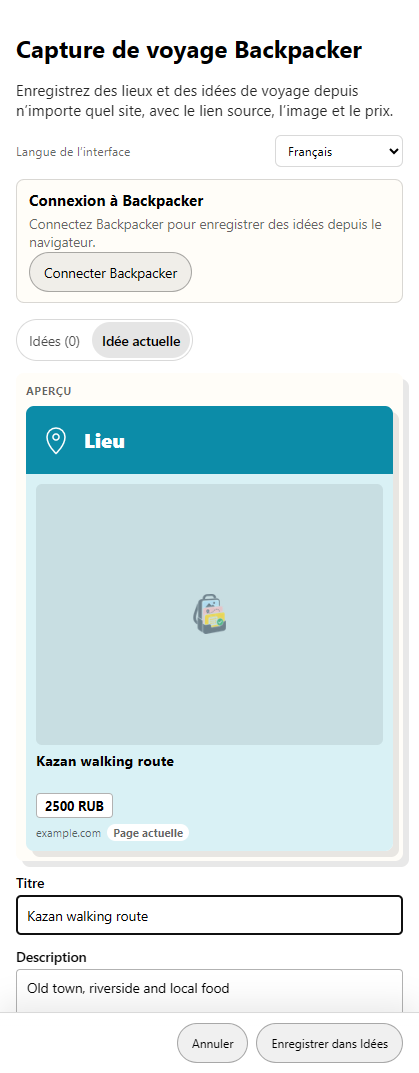
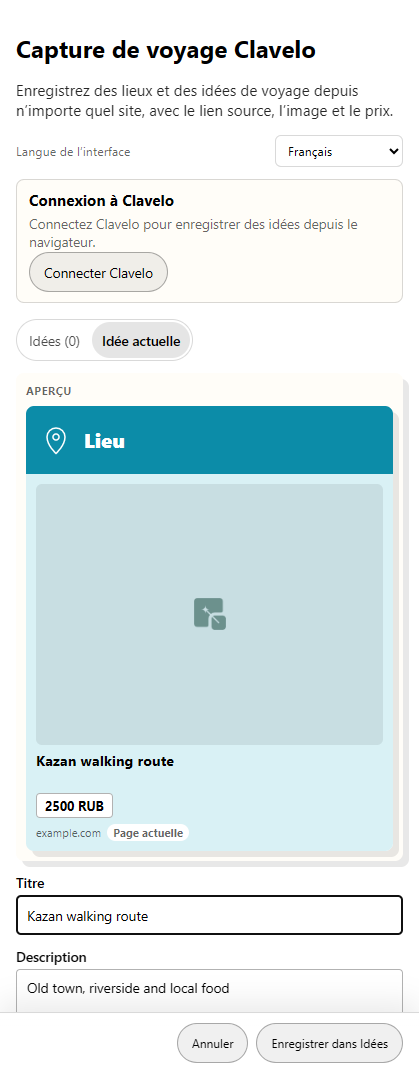
Update landing for published Clavelo extension

diff --git a/i18n.js b/i18n.js
@@ -43,12 +43,12 @@
       "ai.imageAlt": "Trip draft screen with a text field and voice input action.",
       "extension.kicker": "Ideas from the browser",
       "extension.title": "Save travel finds with the Chrome extension",
-      "extension.body1": "The desktop Chrome extension is currently published as Backpacker Travel Capture. It saves information available on the current page and sends the find to Ideas.",
+      "extension.body1": "The desktop Chrome extension is Clavelo Travel Capture. It saves information available on the current page and sends the find to Ideas.",
       "extension.body2": "Some sites may not make every detail available; the source link is kept with the idea.",
       "extension.body3": "Move the idea into a trip when you are ready, or keep it for later.",
       "extension.cta": "Install for Chrome",
       "extension.linkAria": "Open Clavelo Ideas",
-      "extension.imageAlt": "Backpacker Travel Capture side panel with a travel idea and its source.",
+      "extension.imageAlt": "Clavelo Travel Capture side panel with a travel idea and its source.",
       "day.kicker": "Day by day",
       "day.title": "A day is a stream of cards",
       "day.body1": "Every event has its own card.",
@@ -114,12 +114,12 @@
       "ai.imageAlt": "Фрагмент экрана AI-черновика: поле для описания поездки своими словами и кнопка «Надиктовать».",
       "extension.kicker": "Идеи из браузера",
       "extension.title": "Сохраняйте находки через расширение Chrome",
-      "extension.body1": "Расширение Chrome для компьютера пока опубликовано как Backpacker Travel Capture. Оно сохраняет доступную информацию с открытой страницы и отправляет находку в «Идеи».",
+      "extension.body1": "Расширение Chrome для компьютера называется Clavelo Travel Capture. Оно сохраняет доступную информацию с открытой страницы и отправляет находку в «Идеи».",
       "extension.body2": "На некоторых сайтах часть данных может быть недоступна; ссылка на источник сохраняется вместе с идеей.",
       "extension.body3": "Когда будете готовы, перенесите идею в поездку или оставьте на потом.",
       "extension.cta": "Установить для Chrome",
       "extension.linkAria": "Открыть раздел «Идеи» в Clavelo",
-      "extension.imageAlt": "Боковая панель Backpacker Travel Capture с идеей для поездки и ссылкой на источник.",
+      "extension.imageAlt": "Боковая панель Clavelo Travel Capture с идеей для поездки и ссылкой на источник.",
       "day.kicker": "По дням",
       "day.title": "День — это лента карточек",
       "day.body1": "Каждое событие — отдельная карточка.",
@@ -185,12 +185,12 @@
       "ai.imageAlt": "Écran de brouillon de voyage avec un champ de texte et une saisie vocale.",
       "extension.kicker": "Des idées depuis le navigateur",
       "extension.title": "Enregistrez vos trouvailles avec l’extension Chrome",
-      "extension.body1": "L’extension Chrome pour ordinateur est actuellement publiée sous le nom Backpacker Travel Capture. Elle enregistre les informations disponibles sur la page ouverte et envoie la trouvaille dans Idées.",
+      "extension.body1": "L’extension Chrome pour ordinateur s’appelle Clavelo Travel Capture. Elle enregistre les informations disponibles sur la page ouverte et envoie la trouvaille dans Idées.",
       "extension.body2": "Certains sites ne rendent pas tous les détails accessibles ; le lien source reste associé à l’idée.",
       "extension.body3": "Ajoutez l’idée à un voyage quand vous êtes prêt, ou gardez-la pour plus tard.",
       "extension.cta": "Installer pour Chrome",
       "extension.linkAria": "Ouvrir les Idées dans Clavelo",
-      "extension.imageAlt": "Panneau latéral de Backpacker Travel Capture avec une idée de voyage et sa source.",
+      "extension.imageAlt": "Panneau latéral de Clavelo Travel Capture avec une idée de voyage et sa source.",
       "day.kicker": "Jour après jour",
       "day.title": "Une journée est une suite de cartes",
       "day.body1": "Chaque événement a sa propre carte.",
@@ -256,12 +256,12 @@
       "ai.imageAlt": "Reiseentwurf mit Textfeld und Spracheingabe.",
       "extension.kicker": "Ideen aus dem Browser",
       "extension.title": "Reisefunde mit der Chrome-Erweiterung speichern",
-      "extension.body1": "Die Chrome-Erweiterung für den Computer wird derzeit als Backpacker Travel Capture veröffentlicht. Sie speichert verfügbare Informationen der geöffneten Seite und sendet den Fund an Ideen.",
+      "extension.body1": "Die Chrome-Erweiterung für den Computer heißt Clavelo Travel Capture. Sie speichert verfügbare Informationen der geöffneten Seite und sendet den Fund an Ideen.",
       "extension.body2": "Manche Websites stellen nicht alle Details bereit; der Quelllink bleibt bei der Idee gespeichert.",
       "extension.body3": "Übernimm die Idee später in eine Reise oder bewahre sie für später auf.",
       "extension.cta": "Für Chrome installieren",
       "extension.linkAria": "Clavelo-Ideen öffnen",
-      "extension.imageAlt": "Seitenleiste von Backpacker Travel Capture mit einer Reiseidee und ihrer Quelle.",
+      "extension.imageAlt": "Seitenleiste von Clavelo Travel Capture mit einer Reiseidee und ihrer Quelle.",
       "day.kicker": "Tag für Tag",
       "day.title": "Ein Tag ist eine Folge von Karten",
       "day.body1": "Jedes Ereignis hat eine eigene Karte.",
@@ -327,12 +327,12 @@
       "ai.imageAlt": "მოგზაურობის მონახაზის ეკრანი ტექსტის ველითა და ხმოვანი შეყვანით.",
       "extension.kicker": "იდეები ბრაუზერიდან",
       "extension.title": "შეინახეთ აღმოჩენები Chrome გაფართოებით",
-      "extension.body1": "კომპიუტერის Chrome გაფართოება ამჟამად გამოქვეყნებულია სახელით Backpacker Travel Capture. ის ინახავს ღია გვერდზე ხელმისაწვდომ ინფორმაციას და აღმოჩენას „იდეებში“ აგზავნის.",
+      "extension.body1": "კომპიუტერის Chrome გაფართოებას Clavelo Travel Capture ჰქვია. ის ინახავს ღია გვერდზე ხელმისაწვდომ ინფორმაციას და აღმოჩენას „იდეებში“ აგზავნის.",
       "extension.body2": "ზოგი საიტი ყველა დეტალს არ აჩვენებს; წყაროს ბმული იდეასთან ერთად ინახება.",
       "extension.body3": "როცა მზად იქნებით, გადაიტანეთ იდეა მოგზაურობაში ან შეინახეთ მოგვიანებისთვის.",
       "extension.cta": "Chrome-ისთვის დაყენება",
       "extension.linkAria": "Clavelo-ის იდეების გახსნა",
-      "extension.imageAlt": "Backpacker Travel Capture-ის გვერდითი პანელი მოგზაურობის იდეითა და მისი წყაროთი.",
+      "extension.imageAlt": "Clavelo Travel Capture-ის გვერდითი პანელი მოგზაურობის იდეითა და მისი წყაროთი.",
       "day.kicker": "დღეების მიხედვით",
       "day.title": "დღე ბარათების თანმიმდევრობაა",
       "day.body1": "ყოველ მოვლენას საკუთარი ბარათი აქვს.",
@@ -398,12 +398,12 @@
       "ai.imageAlt": "Ճանապարհորդության սևագրի էկրանը՝ տեքստային դաշտով և ձայնային մուտքով։",
       "extension.kicker": "Գաղափարներ դիտարկիչից",
       "extension.title": "Պահպանեք գտածոները Chrome ընդլայնմամբ",
-      "extension.body1": "Համակարգչի Chrome ընդլայնումն այժմ հրապարակված է Backpacker Travel Capture անունով։ Այն պահպանում է բաց էջում հասանելի տեղեկությունը և գտածոն ուղարկում «Գաղափարներ» բաժին։",
+      "extension.body1": "Համակարգչի համար նախատեսված Chrome ընդլայնումը կոչվում է Clavelo Travel Capture։ Այն պահպանում է բաց էջում հասանելի տեղեկությունը և գտածոն ուղարկում «Գաղափարներ» բաժին։",
       "extension.body2": "Որոշ կայքեր կարող են չտրամադրել բոլոր մանրամասները․ աղբյուրի հղումը պահպանվում է գաղափարի հետ։",
       "extension.body3": "Պատրաստ լինելուց հետո գաղափարը տեղափոխեք ճանապարհորդություն կամ պահեք հետագայի համար։",
       "extension.cta": "Տեղադրել Chrome-ի համար",
       "extension.linkAria": "Բացել Clavelo-ի գաղափարները",
-      "extension.imageAlt": "Backpacker Travel Capture-ի կողային վահանակը՝ ճանապարհորդական գաղափարով և դրա աղբյուրով։",
+      "extension.imageAlt": "Clavelo Travel Capture-ի կողային վահանակը՝ ճանապարհորդական գաղափարով և դրա աղբյուրով։",
       "day.kicker": "Ըստ օրերի",
       "day.title": "Օրը քարտերի հաջորդականություն է",
       "day.body1": "Յուրաքանչյուր իրադարձություն ունի իր քարտը։",
@@ -469,12 +469,12 @@
       "ai.imageAlt": "行程草稿界面，包含文字输入框和语音输入按钮。",
       "extension.kicker": "来自浏览器的灵感",
       "extension.title": "使用 Chrome 扩展程序保存旅行发现",
-      "extension.body1": "桌面版 Chrome 扩展程序目前以 Backpacker Travel Capture 名称发布。它会保存当前页面可用的信息，并将发现发送到“灵感”。",
+      "extension.body1": "桌面版 Chrome 扩展程序是 Clavelo Travel Capture。它会保存当前页面可用的信息，并将发现发送到“灵感”。",
       "extension.body2": "某些网站可能不会提供全部详情；来源链接仍会与灵感一起保存。",
       "extension.body3": "准备好后把灵感加入行程，也可以留待以后使用。",
       "extension.cta": "安装 Chrome 扩展程序",
       "extension.linkAria": "打开 Clavelo 的“灵感”",
-      "extension.imageAlt": "Backpacker Travel Capture 侧边栏，显示旅行灵感及其来源。",
+      "extension.imageAlt": "Clavelo Travel Capture 侧边栏，显示旅行灵感及其来源。",
       "day.kicker": "按天规划",
       "day.title": "一天就是一列卡片",
       "day.body1": "每项活动都有自己的卡片。",

diff --git a/privacy/index.html b/privacy/index.html
@@ -4,10 +4,10 @@
     <meta charset="utf-8" />
     <meta name="viewport" content="width=device-width, initial-scale=1, viewport-fit=cover" />
     <meta name="theme-color" content="#2f5d55" />
-    <title>Privacy Policy — Backpacker Travel Capture</title>
+    <title>Privacy Policy — Clavelo Travel Capture</title>
     <meta
       name="description"
-      content="Privacy policy for the Backpacker Travel Capture browser extension. English and Russian."
+      content="Privacy policy for the Clavelo Travel Capture browser extension. English and Russian."
     />
     <link rel="canonical" href="https://clavelo.cc/privacy/" />
     <link rel="icon" href="../assets/clavelo-mark-simple.svg" type="image/svg+xml" />
@@ -34,7 +34,7 @@
         <a class="doc-back" href="../">← Clavelo</a>
 
         <div class="doc-sheet">
-        <h1>Privacy Policy — Backpacker Travel Capture</h1>
+        <h1>Privacy Policy — Clavelo Travel Capture</h1>
         <p class="doc-meta">
           Effective date: <code>August 20, 2026</code><br />
           This page: <code>https://clavelo.cc/privacy/</code><br />
@@ -51,8 +51,8 @@
           <h2>English</h2>
 
           <p>
-            Backpacker Travel Capture is the Chrome extension currently
-            published for Clavelo. It saves travel ideas you find on the web — a
+            Clavelo Travel Capture is the Chrome extension for Clavelo. It saves
+            travel ideas you find on the web — a
             place, a hotel, a flight offer, a page worth remembering — first into
             your own browser, and then into your Clavelo account if you choose to
             connect one.
@@ -66,7 +66,7 @@
           <p>
             The Extension reads a web page only when you ask it to — by clicking
             its toolbar icon, or by right-clicking a selection or a link and
-            choosing "Save to Backpacker". It does not read pages in the
+            choosing "Save to Clavelo". It does not read pages in the
             background, on a timer, or as you browse.
           </p>
           <p>When you trigger a capture, it reads from that page:</p>
@@ -205,7 +205,7 @@
             <li>Disconnect at any time, and reconnect whenever you like.</li>
             <li>
               Withdraw the Extension's access to sites at any time in Chrome,
-              under Extensions → Backpacker Travel Capture → Site access. The
+              under Extensions → Clavelo Travel Capture → Site access. The
               Extension notices this straight away and asks again before its next
               capture.
             </li>
@@ -253,9 +253,8 @@
           </p>
 
           <p>
-            Backpacker Travel Capture — текущее название опубликованного
-            расширения Chrome для Clavelo. Оно сохраняет найденные в интернете
-            идеи для поездок: место, отель, предложение по авиабилетам, страницу,
+            Clavelo Travel Capture — расширение Chrome для Clavelo. Оно сохраняет
+            найденные в интернете идеи для поездок: место, отель, предложение по авиабилетам, страницу,
             которую жалко потерять. Сначала — в ваш браузер, а затем, если вы
             подключите аккаунт, в ваш Clavelo.
           </p>
@@ -268,7 +267,7 @@
           <p>
             Расширение читает страницу только тогда, когда вы его об этом
             просите: нажатием на иконку в панели браузера или через правый клик
-            по выделенному тексту или ссылке с выбором «Сохранить в Backpacker».
+            по выделенному тексту или ссылке с выбором «Сохранить в Clavelo».
             Оно не читает страницы фоном, по таймеру или просто пока вы бродите
             по сайтам.
           </p>
@@ -396,7 +395,7 @@
             <li>Отключиться в любой момент и подключиться заново когда захотите.</li>
             <li>
               Отозвать доступ расширения к сайтам в Chrome: «Расширения» →
-              Backpacker Travel Capture → «Доступ к сайтам». Расширение замечает
+              Clavelo Travel Capture → «Доступ к сайтам». Расширение замечает
               это сразу и перед следующим захватом спросит снова.
             </li>
             <li>

diff --git a/index.html b/index.html
@@ -189,12 +189,12 @@
               <p class="kicker" data-i18n="extension.kicker">Ideas from the browser</p>
               <h3 data-i18n="extension.title">Save travel finds with the Chrome extension</h3>
               <p class="lines lede">
-                <span data-i18n="extension.body1">The desktop Chrome extension is currently published as Backpacker Travel Capture. It saves information available on the current page and sends the find to Ideas.</span>
+                <span data-i18n="extension.body1">The desktop Chrome extension is Clavelo Travel Capture. It saves information available on the current page and sends the find to Ideas.</span>
                 <span data-i18n="extension.body2">Some sites may not make every detail available; the source link is kept with the idea.</span>
                 <span data-i18n="extension.body3">Move the idea into a trip when you are ready, or keep it for later.</span>
               </p>
               <p class="extension-action">
-                <a class="btn btn-secondary" href="https://chromewebstore.google.com/detail/backpacker-travel-capture/okpfmpplfciccfddgibkcoliemfimifc" rel="noopener" data-i18n="extension.cta">Install for Chrome</a>
+                <a class="btn btn-secondary" href="https://chromewebstore.google.com/detail/clavelo-travel-capture/okpfmpplfciccfddgibkcoliemfimifc" rel="noopener" data-i18n="extension.cta">Install for Chrome</a>
               </p>
             </div>
 
@@ -205,7 +205,7 @@
                   data-localized-screenshot="crop-extension.png"
                   width="419"
                   height="1073"
-                  alt="Backpacker Travel Capture side panel with a travel idea and its source."
+                  alt="Clavelo Travel Capture side panel with a travel idea and its source."
                   data-i18n-alt="extension.imageAlt"
                   loading="lazy"
                 />
